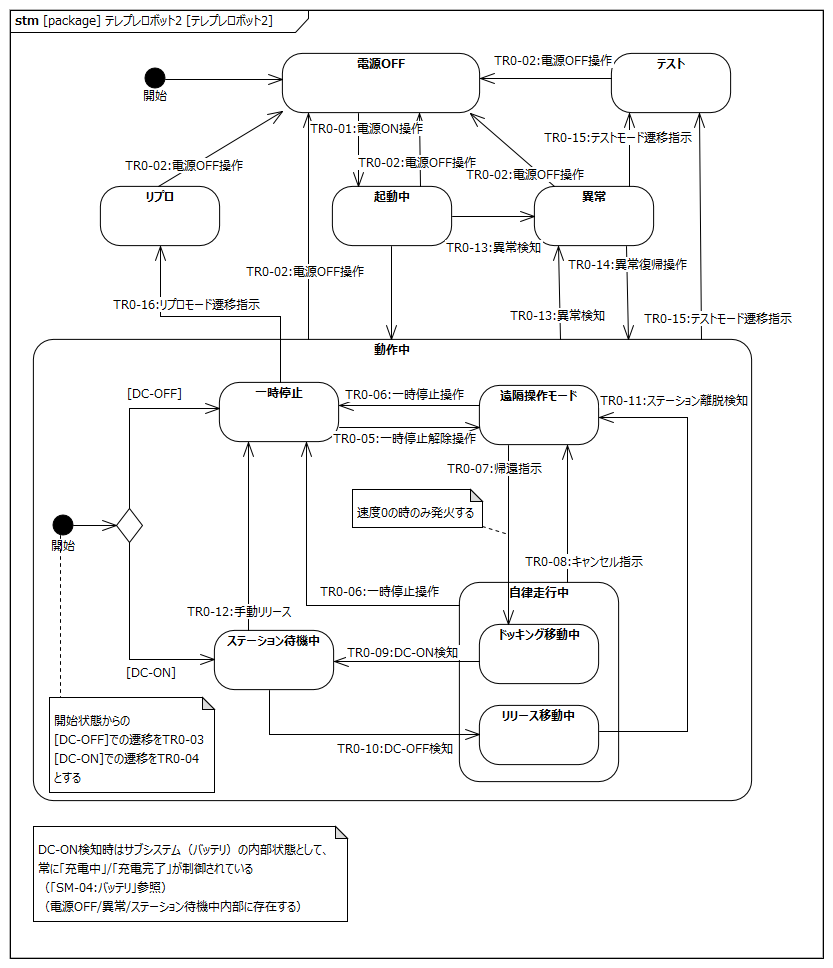
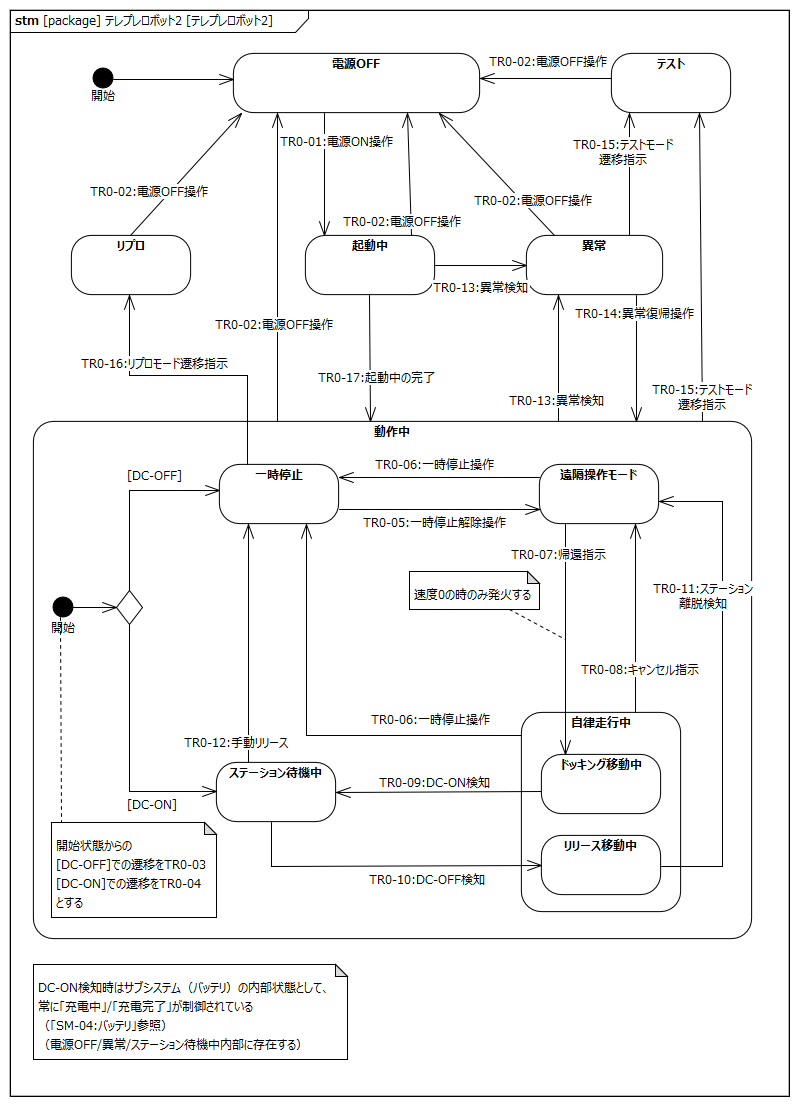
セルフレビューによる修正： ・sm-00.pngで起動中から動作中へのトリガを明記（HGLC指摘事項で自動遷移も表記を希望されていた） 　・図修正に伴う文言の修正 ・TR1-04の関連要求の誤記修正（起動に関するトリガをSysRS-15としていたのをSysRS-01に修正）

diff --git a/requirements/requirement.md b/requirements/requirement.md
@@ -1169,8 +1169,8 @@ date: 2022年1月31日
 |---:|:---|:---|:---|:---|
 |TR0-01|電源OFF → 起動中|電源ON操作|SysRS-01|電源ON操作は電源スイッチ短押し/長押し（充電ステーション接続時は短押しのみ）を想定|
 |TR0-02|起動中/動作中/異常/テスト/リプロ → 電源OFF|電源OFF操作|SysRS-15[SysRS-11b|SysRS-19,SysRs-20,SysRS-21|SysRs-22]|電源OFF操作はシャットダウン操作/電源スイッチ長押しを想定|
-|TR0-03|起動中 → 一時停止|起動中完了による自動遷移[DC-OFF]|SysRS-01,SysRS-06||
-|TR0-04|起動中 → ステーション待機中|起動中完了による自動遷移[DC-ON]|SysRS-01||
+|TR0-03|動作中の開始 → 一時停止|開始状態からの自動遷移[DC-OFF]|SysRS-01,SysRS-06|開始状態はTR0-14/TR0-17による遷移を想定|
+|TR0-04|動作中の開始 → ステーション待機中|開始状態からの自動遷移[DC-ON]|SysRS-01|開始状態はTR0-14/TR0-17による遷移を想定|
 |TR0-05|一時停止 → 遠隔操作モード|一時停止解除操作|SysRS-07|一時停止解除操作は電源スイッチ短押しの想定|
 |TR0-06|遠隔操作モード/自律走行中 → 一時停止|一時停止操作|SysRS-03,SysRS-07|一時停止操作は電源スイッチ短押しの想定|
 |TR0-07|遠隔操作モード → ドッキング移動中|帰還指示|SysRS-03|帰還指示はアバターアプリから送信される想定。帰還指示は、速度0の時のみ発火する|
@@ -1180,9 +1180,10 @@ date: 2022年1月31日
 |TR0-11|リリース移動中 → 遠隔操作モード|ステーション離脱検知|SysRS-03|ステーション離脱検知はリリースの自律走行終了のタイミング※1|
 |TR0-12|ステーション待機中 → 一時停止|手動リリース|SysRS-06|手押しで充電ステーションから切り離す操作※2|
 |TR0-13|起動中/動作中 → 異常|異常検知|SysRS-11a||
-|TR0-14|異常 → 動作中|異常復帰操作|SysRS-11b|電源スイッチ短押しを想定|
+|TR0-14|異常 → 動作中|異常復帰操作|SysRS-11b|電源スイッチ短押しを想定。動作中遷移後はTR0-03/TR0-04で分岐する想定|
 |TR0-15|動作中/異常 → テスト|テストモード遷移指示|SysRS-19,SysRS-20,SysRS-21|テストモード遷移指示は診断PCから送信される想定|
 |TR0-16|一時停止 → リプロ|リプロモード遷移指示|SysRS-22|リプロモード遷移指示は書き換え用PCから送信される想定|
+|TR0-17|起動中 → 動作中|起動中の完了による自動遷移|SysRS-01|動作中遷移後はTR0-03/TR0-04で分岐する想定|
 
 ※1:充電ステーションから遠隔操作での走行操作指示が可能な距離（20cmを想定）離れた時点を想定  
 ※2:UC-013/UC-014では電源ON/OFFの双方を想定しているため抽出。UC-004では、電源OFFでのみ手押し移動をする想定と明記されているため、手動帰還は無いものとした
@@ -1209,7 +1210,7 @@ date: 2022年1月31日
 |TR1-01|開始 → 状態非表示|電源OFF操作[DC-OFF]|SysRS-15|ロボット全体を終了する想定（終了中の状態表示する）|
 |TR1-02|開始 → 状態表示|電源OFF操作[DC-ON]|SysRS-15|状態表示/異常検知できる範囲を残してロボットを終了する想定（終了中の状態表示する）|
 |TR1-03|状態表示 → 状態非表示|DC-OFF検知|SysRS-15|システム全てを終了する想定（終了中の状態表示しない）|
-|TR1-04|状態非表示 → 状態表示|DC-ON検知|SysRS-15|状態表示/異常検知できる範囲でロボットの一部を起動する想定（起動中の状態表示しない）|
+|TR1-04|状態非表示 → 状態表示|DC-ON検知|SysRS-01|状態表示/異常検知できる範囲でロボットの一部を起動する想定（起動中の状態表示しない）|
 
 <div style="page-break-before:always"></div>
 
@@ -1312,7 +1313,7 @@ date: 2022年1月31日
         - 上記電源ON操作は
           - DC-OFFの場合、電源スイッチ短押し/長押しである想定
           - DC-OFFの場合、電源スイッチ短押しである（長押しは無視する）想定
-    - TR0-03,TR0-04より
+    - TR0-03,TR0-04,TR0-17より
       - 起動処理終了後は一時停止（充電ステーションに接続された状態であれば、ステーション待機中）となる
     - TR1-04より
       - 「電源OFF」の「状態非表示」で充電ステーションに接続された場合、状態表示/異常検知できる範囲でロボットの一部を起動する（起動中の状態表示しない）
@@ -1422,7 +1423,7 @@ YES動作コマンドは首垂直動作に依存し、NO動作コマンドは首
       - リリースコマンド受付後、リリース待ちとなり、安全確認操作を受けて自律走行を開始する
     - TR2-03より
       - 自律走行開始後、DC-OFF検知するまでにキャンセルコマンドを受け付けた場合、リリース待ち無し状態となる
-        - このタイミングが実質的にあり得るかは要QA
+        - このタイミングが実質的にあり得るかはQA中
 
 
 **要求抽出**
@@ -1781,12 +1782,12 @@ SysRS-11と統合のため廃止
 	- テレプレゼンスロボットが再起動によりFault状態から復帰できること
 - 備考
 	- テレプレゼンスロボットを再起動してもFault状態が解消されない場合はメンテナンスが必要
-    - TR0-02,TR0-14,TR3-05より
+    - TR0-02,TR0-03,TR0-04,TR0-14,TR3-05より
       - Faultの場合、異常復帰操作は受け付けない
         - 電源OFF操作のみ可能とする
           - 「電源OFF」の「状態表示」ではFault解消のためには手動リリースによる「状態非表示」への遷移後、電源ONする必要がある
       - Warning1の場合、充電ステーションへの接続により異常が解消される
-        - UC-004より一旦「電源OFF」の「状態非表示」として、手動ドッキングにより「状態表示」へ遷移する想定
+        - UC-004より、一旦「電源OFF」の「状態非表示」として、手動ドッキングにより「状態表示」へ遷移する想定
       - Warning2/Cautionの場合、異常復帰操作により異常が解消され「動作中」に遷移する
         - 異常復帰操作は電源スイッチ短押しを想定
         - DC-OFFの場合は「動作中」の「一時停止」、DC-ONの場合は「動作中」の「ステーション待機中」となる
